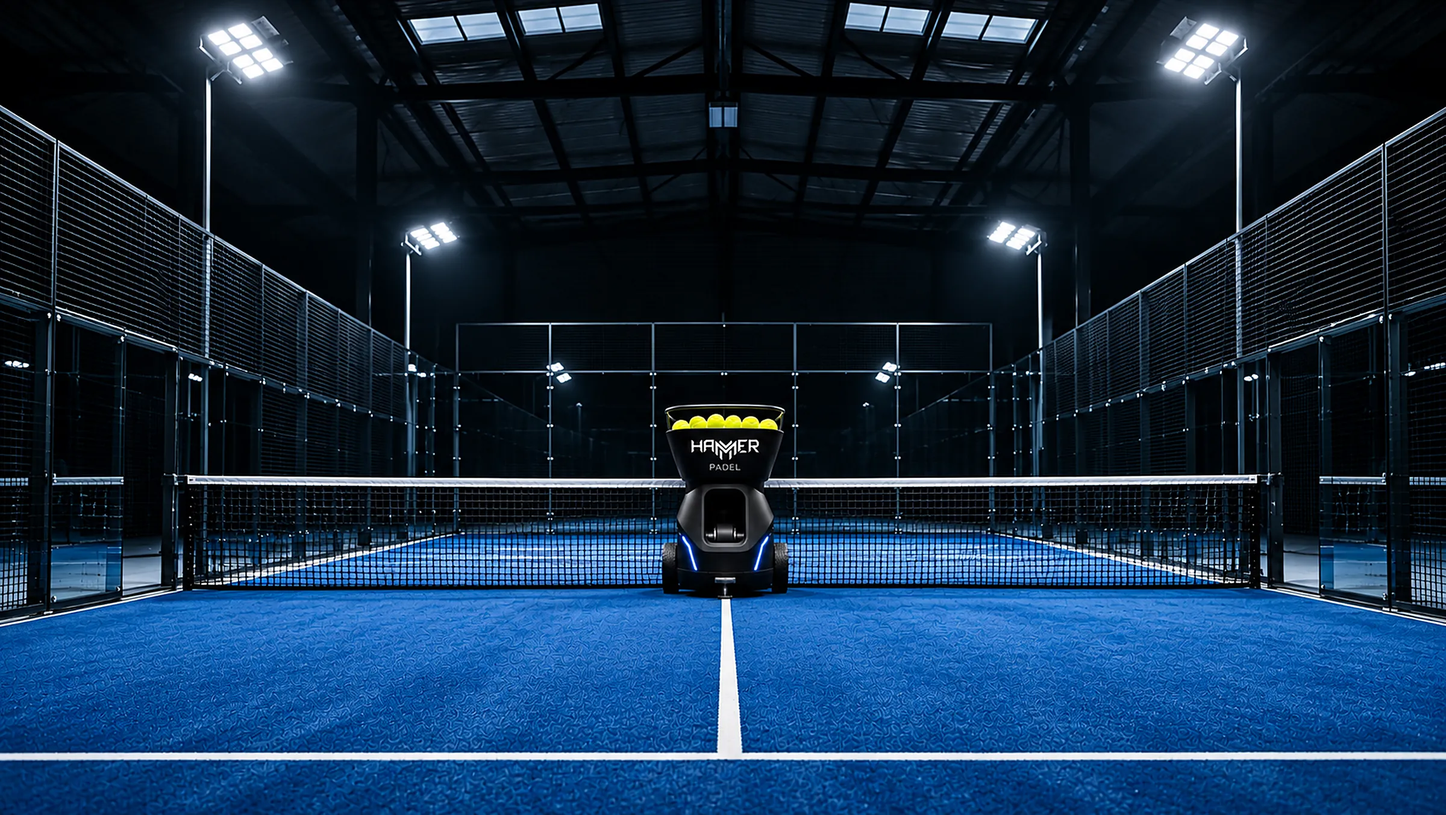
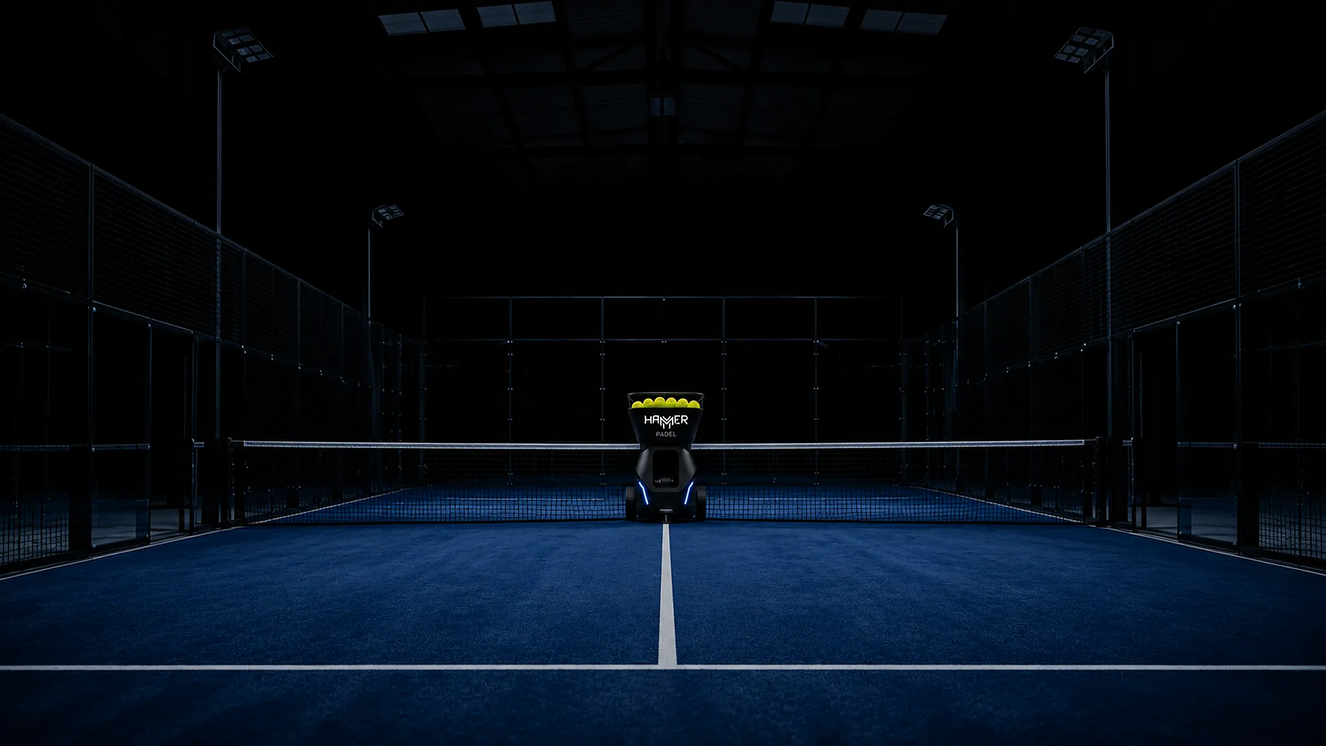
feat(escena1): pista apagada (foto 1) que se enciende por parejas de focos con capas de luz calculadas de la misma foto; acercamiento tipo dron
Claude-Session: https://claude.ai/code/session_0149wBixC6gYdVHkyiPBvfHJ

diff --git a/src/app/globals.css b/src/app/globals.css
@@ -223,7 +223,7 @@ html.hp-static [data-sc-stagger] > * {
   will-change: transform, filter;
 }
 /* Foto iluminada única, dos movimientos:
-   1) encendido (--t, por tiempo al cargar): la pista parte casi a oscuras y
+   1) encendido (--t, por tiempo al cargar): la pista parte apagada (foto 1) y
       los focos se encienden por parejas, de fondo a primer plano, con destello
       y haz de luz. Así nadie aterriza en una pantalla negra.
    2) dron (--sc-p, por scroll): la cámara baja, se nivela y avanza hacia la
@@ -240,10 +240,7 @@ html.sc-ready:not(.hp-static) .pista__frame { animation: hp-luces 3.2s linear 0.
 .pista__frame {
   --q: var(--sc-p, 1);
   --e: calc(var(--q) * var(--q) * (3 - 2 * var(--q)));
-  --l0: clamp(0, (var(--t) - 0.04) * 9, 1);
-  --l1: clamp(0, (var(--t) - 0.31) * 9, 1);
   --l2: clamp(0, (var(--t) - 0.58) * 9, 1);
-  --luz: calc((var(--l0) + var(--l1) + var(--l2)) / 3);
   position: absolute; left: 50%; top: 50%;
   width: max(100%, 177.6svh); aspect-ratio: 1671 / 941;
   translate: -50% -50%;
@@ -257,12 +254,14 @@ html.sc-ready:not(.hp-static) .pista__frame { animation: hp-luces 3.2s linear 0.
   will-change: transform;
 }
 .pista__layer { position: absolute; inset: 0; width: 100%; height: 100%; }
-.pista__foto {
-  filter:
-    brightness(calc(0.13 + var(--luz) * 0.87))
-    saturate(calc(0.35 + var(--luz) * 0.65))
-    contrast(calc(1.15 - var(--luz) * 0.15));
-  will-change: filter;
+/* La foto base es la pista apagada. Cada pareja de focos añade su propia
+   capa de luz (sumada en modo "screen"), así la pista iluminada sale de la
+   misma foto, sin desdobles. */
+.pista__frame { isolation: isolate; background: #000; }
+.pista__luz {
+  mix-blend-mode: screen; pointer-events: none;
+  opacity: clamp(0, (var(--t) - 0.04 - var(--n) * 0.27) * 9, 1);
+  will-change: opacity;
 }
 /* Rebote de luz azul sobre el suelo cuando se encienden los focos cercanos. */
 .pista__suelo {

diff --git a/src/app/page.tsx b/src/app/page.tsx
@@ -11,9 +11,9 @@ import { mediosPista } from "@/content/medios";
 
 /** Focos de la foto iluminada (en % del encuadre 1671x941), de fondo a primer plano. */
 const LAMPARAS = [
-  { x: 38.6, y: 45.8, orden: 0 }, { x: 61.3, y: 45.8, orden: 0 },
-  { x: 29.8, y: 28.5, orden: 1 }, { x: 69.9, y: 28.5, orden: 1 },
-  { x: 16.2, y: 5.8, orden: 2 }, { x: 83.4, y: 5.8, orden: 2 },
+  { x: 38.3, y: 45.7, orden: 0 }, { x: 61.7, y: 45.7, orden: 0 },
+  { x: 29.1, y: 28.8, orden: 1 }, { x: 70.8, y: 28.8, orden: 1 },
+  { x: 18.3, y: 6.5, orden: 2 }, { x: 81.7, y: 6.5, orden: 2 },
 ];
 
 const pct = (v: number, t: number) => `${((v / t) * 100).toFixed(2)}%`;
@@ -34,8 +34,12 @@ export default function Inicio() {
         <div data-sc-stage className="stage">
           {medios.foto && !medios.video ? (
             <div className="pista__frame">
-              <img className="pista__layer pista__foto" src={medios.foto} width={2400} height={1352}
-                alt="Máquina Hammer Padel en una pista de pádel azul iluminada" fetchPriority="high" />
+              <img className="pista__layer pista__foto" src={medios.foto} width={2200} height={1238}
+                alt="Máquina Hammer Padel en una pista de pádel azul" fetchPriority="high" />
+              {medios.luces.map((src, n) => (
+                <img key={src} className="pista__layer pista__luz" src={src} alt="" aria-hidden="true"
+                  style={{ ["--n" as string]: n }} />
+              ))}
               <div className="pista__suelo" aria-hidden="true" />
               {LAMPARAS.map((l, i) => (
                 <span key={i} className="pista__lamp" aria-hidden="true"

diff --git a/src/content/medios.ts b/src/content/medios.ts
@@ -18,6 +18,9 @@ export function mediosPista() {
     foto: url("pista.webp"),
     /** Las fotos actuales ya muestran la máquina: no se superpone el hueco de producto. */
     fotoIncluyeMaquina: existe("pista.webp"),
+    /** Capas de luz (una por pareja de focos, de fondo a primer plano), calculadas
+     *  a partir de la propia foto apagada con produccion/iluminar-pista.py. */
+    luces: [0, 1, 2].map((n) => url(`luz-${n}.webp`)).filter((u): u is string => u !== null),
     fotoMovil: url("pista-m.webp") ?? url("pista.webp"),
     video: url("pista.mp4"),
     videoMovil: url("pista-m.mp4"),

diff --git a/produccion/iluminar-pista.py b/produccion/iluminar-pista.py
@@ -1,0 +1,44 @@
+"""Escena 1: calcula las capas de luz de la pista a partir de la foto apagada.
+
+Uso: python produccion/iluminar-pista.py pista-oscura.png [carpeta-salida]
+Genera luz0..2.png (una por pareja de focos, de fondo a primer plano) y
+final.png (vista previa de la suma). Después se convierten a WebP en
+public/medios/pista/luz-N.webp. Sin servicios externos ni modelos de IA:
+solo OpenCV y NumPy.
+"""
+import cv2, numpy as np, sys, os
+ENTRADA = sys.argv[1] if len(sys.argv) > 1 else 'pista-oscura.png'
+SALIDA = sys.argv[2] if len(sys.argv) > 2 else '.'
+os.makedirs(SALIDA, exist_ok=True)
+d=cv2.imread(ENTRADA).astype(np.float32)/255
+h,w=d.shape[:2]
+Y,X=np.mgrid[0:h,0:w].astype(np.float32); X/=w; Y/=h
+pairs=[[(38.3,45.7),(61.7,45.7)],[(29.1,28.8),(70.8,28.8)],[(18.3,6.5),(81.7,6.5)]]  # lejos -> cerca
+def gauss(cx,cy,sx,sy): return np.exp(-(((X-cx)/sx)**2+((Y-cy)/sy)**2))
+cool=np.array([1.0,0.97,0.92],np.float32)  # BGR: blanco algo frío
+layers=[]
+for n,pair in enumerate(pairs):
+    k=[0.8,1.1,1.4][n]
+    G=np.zeros((h,w),np.float32)
+    for (lx,ly) in pair:
+        lx/=100; ly/=100
+        # pool de luz en la pista bajo/delante del foco
+        G+=1.25*gauss(lx+(0.5-lx)*0.45, ly+0.30+0.08*n, 0.20*k, 0.16*k)
+        # lavado del cristal/pared lateral bajo el foco
+        G+=0.9*gauss(lx, ly+0.15, 0.06*k, 0.18*k)
+        # resplandor alrededor de la lámpara
+        G+=1.2*gauss(lx, ly, 0.035*k, 0.05*k)
+    G+=0.2*(n+1)/3  # relleno ambiente
+    L=d*G[...,None]*cool
+    # emisión de la cabeza del foco (núcleo + bloom)
+    E=np.zeros((h,w),np.float32)
+    for (lx,ly) in pair:
+        lx/=100; ly/=100
+        E+=1.0*gauss(lx,ly,0.012*k,0.016*k)+0.35*gauss(lx,ly,0.04*k,0.055*k)
+    L+=E[...,None]*np.array([1.0,0.98,0.95],np.float32)
+    layers.append(np.clip(L,0,1))
+out=d.copy()
+for L in layers: out=1-(1-out)*(1-L)   # screen, como en CSS
+cv2.imwrite(os.path.join(SALIDA,'final.png'),(np.clip(out,0,1)*255).astype(np.uint8))
+for i,L in enumerate(layers): cv2.imwrite(os.path.join(SALIDA,f'luz{i}.png'),(L*255).astype(np.uint8))
+print('brillo medio: apagada', round(float(d.mean()),3), 'encendida', round(float(out.mean()),3))
